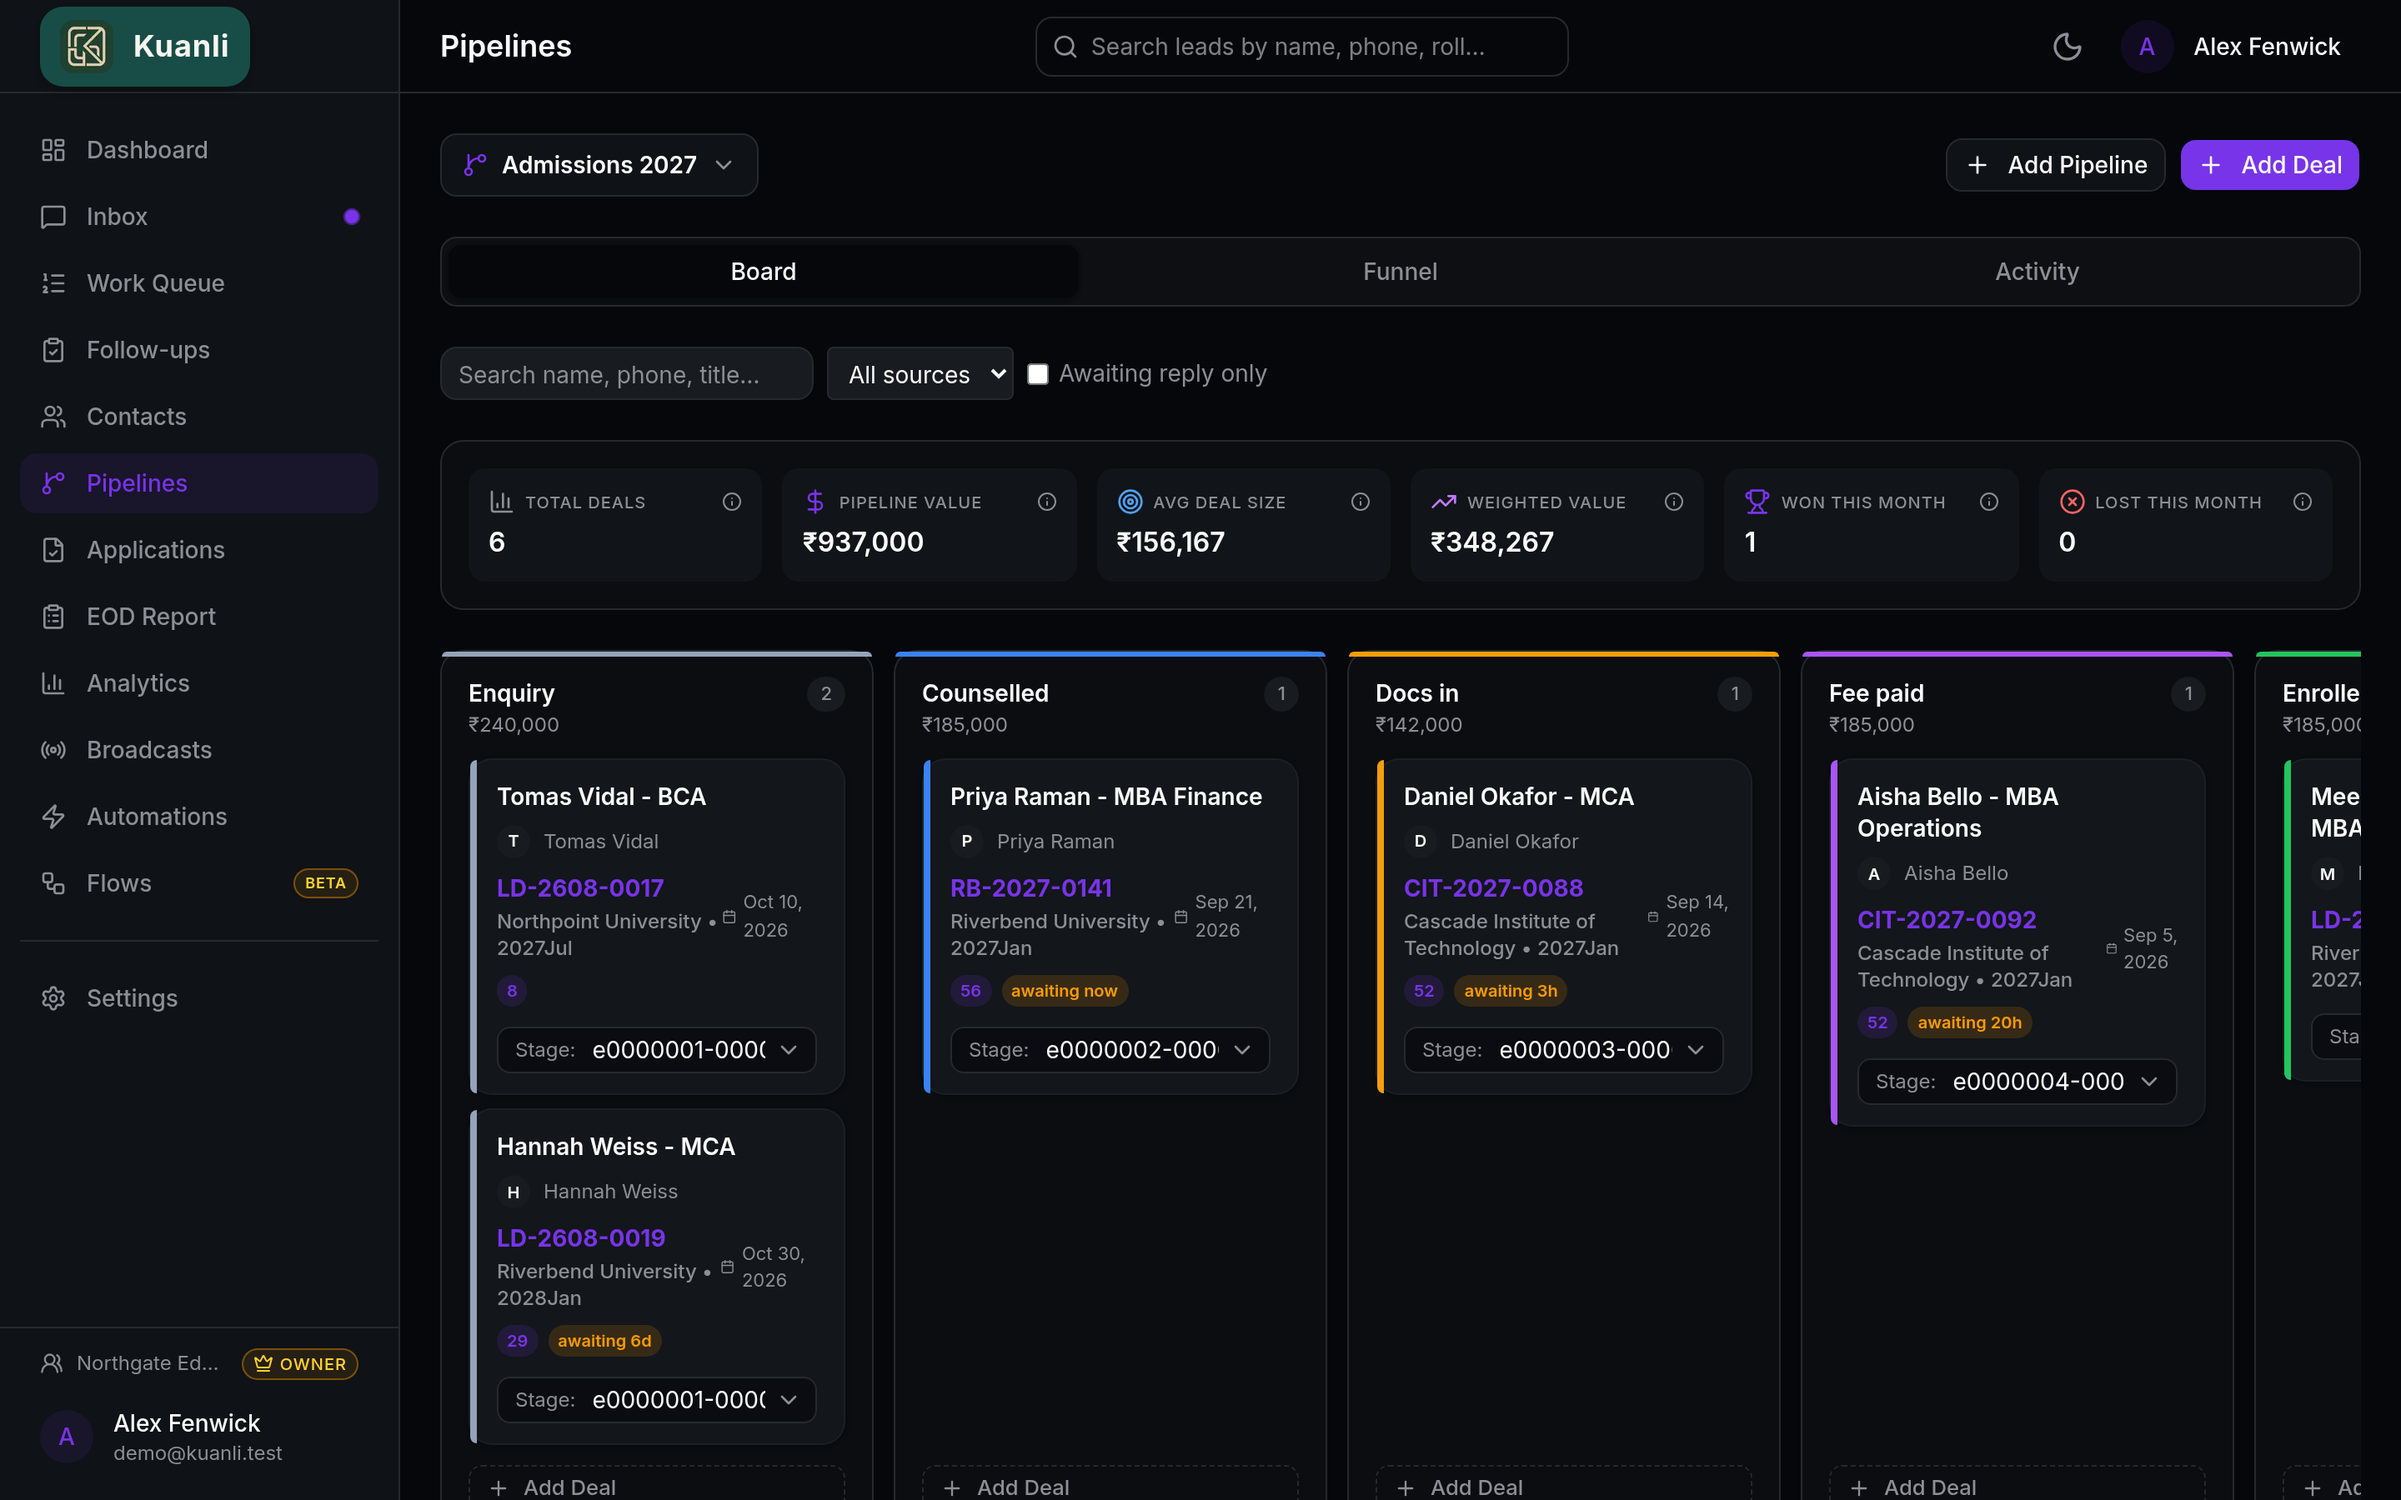
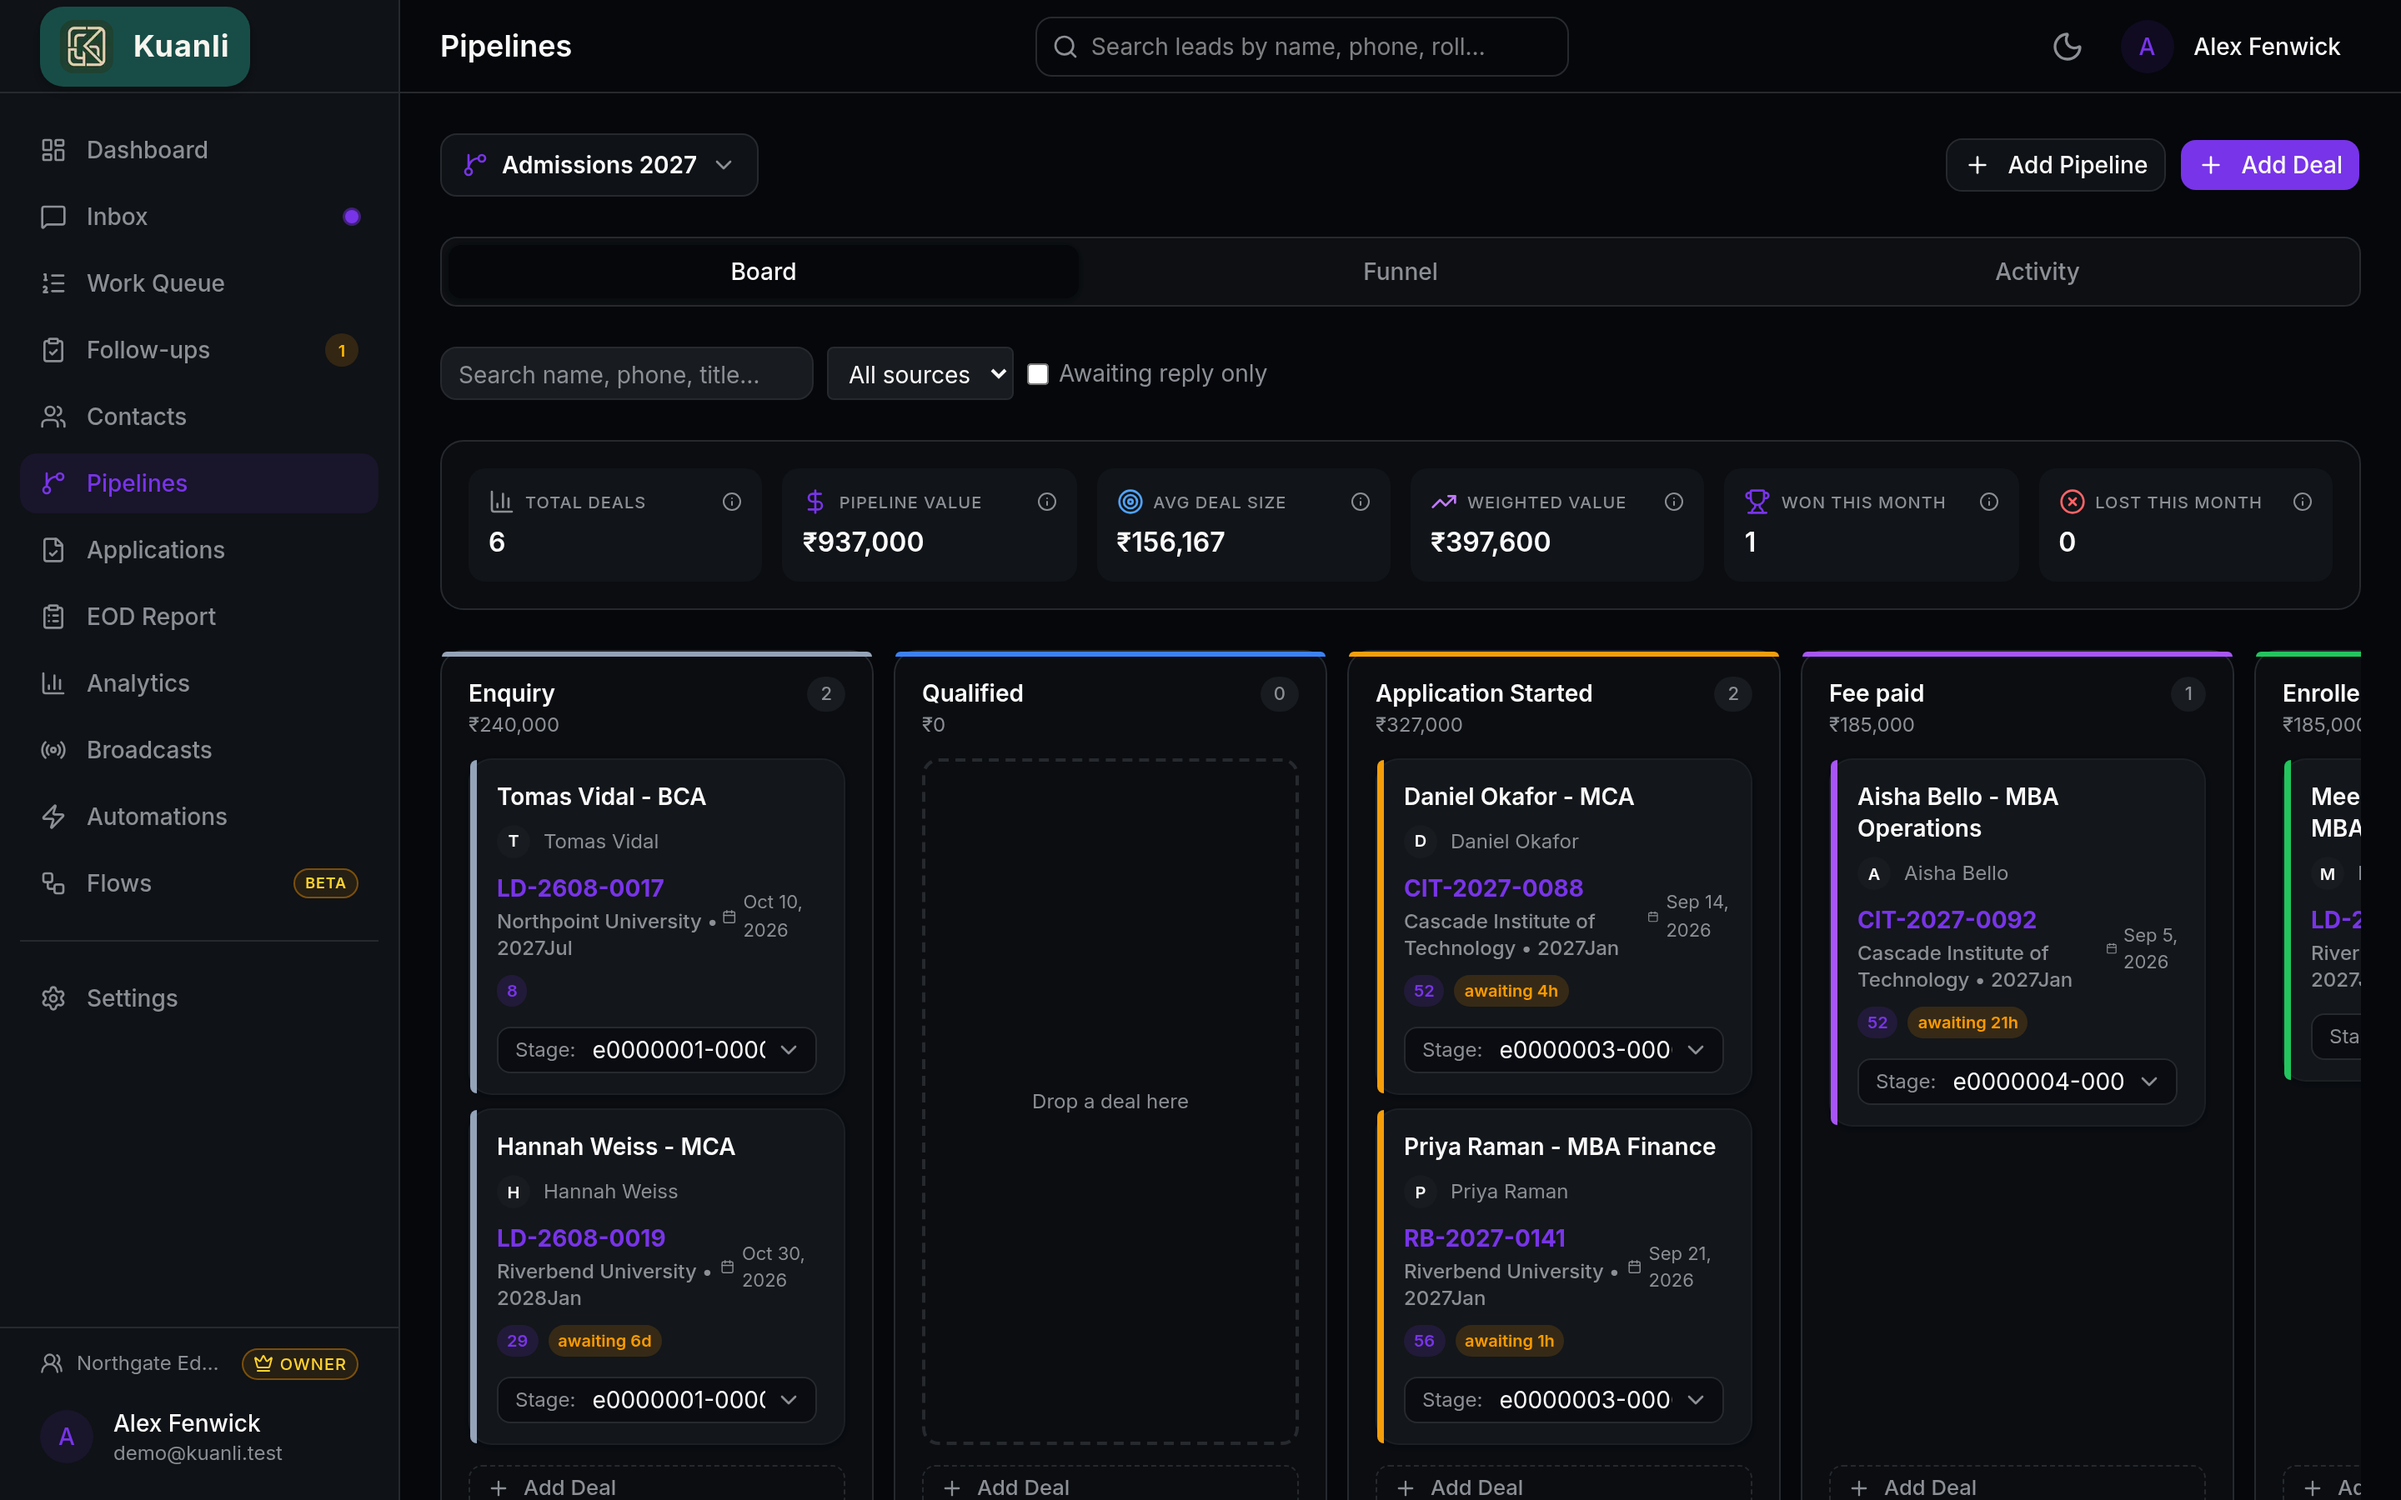
docs: add application tracker and follow-up screenshots
Eight screens now, up from six. The two new ones cover the parts of the product
that are hardest to convey in prose: the per-university document checklist with
per-file verification state, and the follow-up call sheet.

The other six are recaptured because the seeded pipeline now uses the stage
names the product actually keys off. application_tracker returns contacts at
Application Started and Enrolled, and the CAPI trigger maps Qualified,
Application Started and Enrolled to conversion events. The earlier seed invented
stage names, so the tracker matched almost nothing and the screen showed one
lead with every document missing.

Still seeded dev data throughout. No applicant data in this repository.

Claude-Session: https://claude.ai/code/session_01JbvftwYKQ3r9k5VJQXnnTY

diff --git a/README.md b/README.md
@@ -33,14 +33,23 @@ value, and every card shows how long the applicant has been awaiting a reply.
 
 ![Kuanli pipeline board](public/screenshots/pipelines.png)
 
+**Application tracker.** The per-university document checklist, with each file's
+verification state on the card. Different institutions require different papers,
+so the checklist is per university rather than one global list.
+
+![Kuanli application tracker](public/screenshots/documents.png)
+
 <table>
 <tr>
+<td width="50%"><b>Follow-ups</b><br><img src="public/screenshots/followups.png" alt="Follow-up call sheet"></td>
 <td width="50%"><b>Contacts</b><br><img src="public/screenshots/contacts.png" alt="Contact list"></td>
-<td width="50%"><b>Dashboard</b><br><img src="public/screenshots/dashboard.png" alt="Dashboard"></td>
 </tr>
 <tr>
-<td><b>Broadcasts</b><br><img src="public/screenshots/broadcasts.png" alt="Template broadcasts"></td>
+<td><b>Dashboard</b><br><img src="public/screenshots/dashboard.png" alt="Dashboard"></td>
 <td><b>Analytics</b><br><img src="public/screenshots/analytics.png" alt="Analytics"></td>
+</tr>
+<tr>
+<td colspan="2"><b>Broadcasts</b><br><img src="public/screenshots/broadcasts.png" alt="Template broadcasts"></td>
 </tr>
 </table>
 
